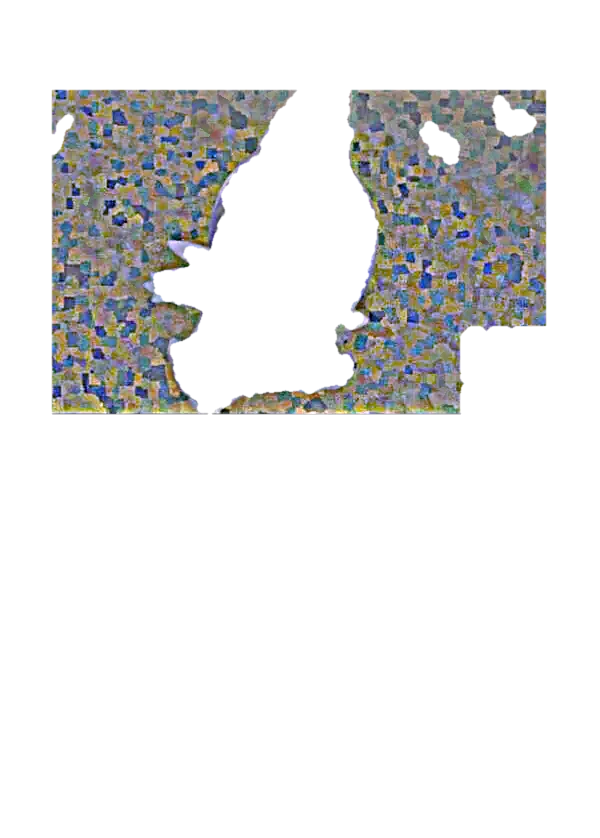
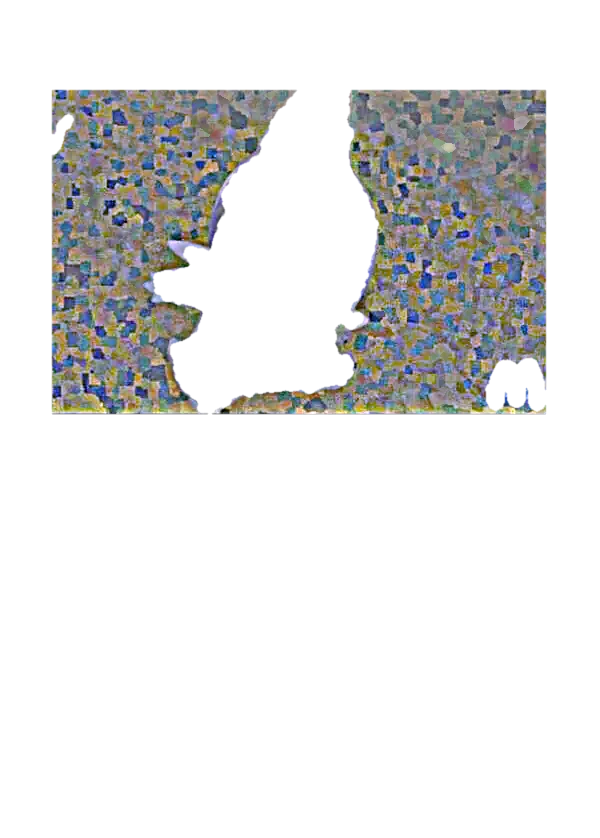
WIP mcd-promos holo family (in progress, not reviewed)
Snapshot of the family agent's work so far, so a container restart cannot
lose it. Not shipped; the family's final commit follows its review.

Claude-Session: https://claude.ai/code/session_01B8RJC6bhck4cqShRYgFuu1

Changed region(s): [[0.75, 0.3723, 0.93, 0.4964], [0.69, 0.1241, 0.78, 0.2172], [0.81, 0.0931, 0.9, 0.1862]]

diff --git a/.claude/skills/card-textures/scripts/fam/mcd-promos/make_mcd_maps_v2.py b/.claude/skills/card-textures/scripts/fam/mcd-promos/make_mcd_maps_v2.py
@@ -225,16 +225,21 @@ def poke_from_residual(M, win):
     lab, n = ndi.label(free)
     poke = np.zeros((H, W), bool)
     if n:
-        sizes = ndi.sum(free, lab, range(1, n + 1))
-        ys, xs = np.mgrid[0:H, 0:W]
+        sizes = np.asarray(ndi.sum(free, lab, range(1, n + 1)))
+        main = float(sizes.max())
+        keep = sizes >= 0.30 * main
+        # pale cloud-shaped background reads as chip-free too: only blobs near the main ones (thin parts: ears, tails, gear rims) or
+        # in the evolution circle's corner stay
+        kept = np.isin(lab, np.where(keep)[0] + 1)
+        near = ndi.binary_dilation(kept, structure=disk(12))
         for i, sz in enumerate(sizes, 1):
-            if sz >= 500:
-                poke |= lab == i
-            elif sz >= 120:
-                comp = lab == i
-                cy, cx = ndi.center_of_mass(comp)
-                if cx < 140 and cy < 140:  # the evolution circle's corner
-                    poke |= comp
+            if keep[i - 1] or sz < 120:
+                continue
+            comp = lab == i
+            cy, cx = ndi.center_of_mass(comp)
+            if (comp & near).any() or (cx < 140 and cy < 140):
+                keep[i - 1] = True
+        poke = np.isin(lab, np.where(keep)[0] + 1)
     poke = ndi.binary_closing(poke, structure=disk(5))
     poke = ndi.binary_fill_holes(poke)
     return poke, chip
@@ -346,6 +351,32 @@ def voronoi_field(cid, std):
     return np.clip(0.5 + 0.5 * lev[idx] / 2.0, 0, 1)
 
 
+M_REF = {"mcd12": "mcd12-9", "mcd14": "mcd14-6"}
+_MT = {}
+
+
+def m_template(s):
+    """The golden-arches badge as a mask: strict yellow in the badge box of a clean card of the same year (the badge sits in the same place
+    on all twelve), grown 3 px. The old per-card yellow step took the whole box on cards with yellow-green art (Axew)."""
+    if s in _MT:
+        return _MT[s]
+    A = v1.load(M_REF[s])
+    mx0, my0, mx1, my1 = M_BOX[s]
+    hsv = cv2.cvtColor((A * 255).astype(np.uint8), cv2.COLOR_RGB2HSV).astype(np.float32)
+    yel = (hsv[..., 0] > 14) & (hsv[..., 0] < 32) & (hsv[..., 1] > 150) & (hsv[..., 2] > 170)
+    box = np.zeros((H, W), bool)
+    box[my0:my1, mx0:mx1] = True
+    m = yel & box
+    lab, n = ndi.label(ndi.binary_dilation(m, iterations=2))
+    keep = np.zeros((H, W), bool)
+    for i in range(1, n + 1):
+        comp = (lab == i) & m
+        if comp.sum() >= 120:
+            keep |= comp
+    _MT[s] = ndi.binary_dilation(keep, structure=disk(3))
+    return _MT[s]
+
+
 def build(cid):
     A = v1.load(cid)
     win = window_mask()
@@ -354,7 +385,7 @@ def build(cid):
     poke = None
     Bw = None
     best = None
-    cands = [] if cid in OA else list(dict.fromkeys(C.get(cid, []) + name_candidates(cid)))[:7]  # new artwork: no set print to register
+    cands = [] if cid in OA else list(dict.fromkeys(C.get(cid, []) + name_candidates(cid)))[:int(os.environ.get('MCD_NCAND', '7'))]  # new artwork: no set print to register
     for sid in cands:
         p = img_path(sid)
         if not p:
@@ -365,12 +396,12 @@ def build(cid):
             continue
         cands_reg = []
         try:
-            cands_reg.append(register(A, B))
+            cands_reg.append(register_sift(A, B))  # SIFT first: it finds the print when the plain ECC from identity does not
         except Exception:
             pass
-        if not cands_reg or cands_reg[0][1] < 0.90:
+        if not cands_reg or cands_reg[0][1] < 0.85:
             try:
-                cands_reg.append(register_sift(A, B))
+                cands_reg.append(register(A, B))
             except Exception:
                 pass
         if not cands_reg:
@@ -378,7 +409,7 @@ def build(cid):
         Bw_, cc = max(cands_reg, key=lambda t: t[1])
         if best is None or cc > best[1]:
             best = (Bw_, cc, sid)
-        if cc > 0.90:
+        if cc > 0.86:
             break
     M = None
     if best and best[1] >= 0.80:
@@ -409,13 +440,7 @@ def build(cid):
     else:
         s = cid.split("-")[0]
         if s in M_BOX:
-            mx0, my0, mx1, my1 = M_BOX[s]
-            hsv = cv2.cvtColor((A * 255).astype(np.uint8), cv2.COLOR_RGB2HSV).astype(np.float32)
-            yel = (hsv[..., 0] > 14) & (hsv[..., 0] < 32) & (hsv[..., 1] > 150) & (hsv[..., 2] > 170)
-            box = np.zeros((H, W), bool)
-            box[my0:my1, mx0:mx1] = True
-            m = ndi.binary_closing(ndi.binary_dilation(yel & box, iterations=7), iterations=6)
-            poke = poke | m
+            poke = poke | m_template(s)
         poke = ndi.binary_dilation(poke, structure=disk(3)) & win
         mask = win & ~poke
         al = np.clip(cv2.GaussianBlur(mask.astype(np.float32), (0, 0), 0.7) * 1.1 - 0.05, 0, 1)
